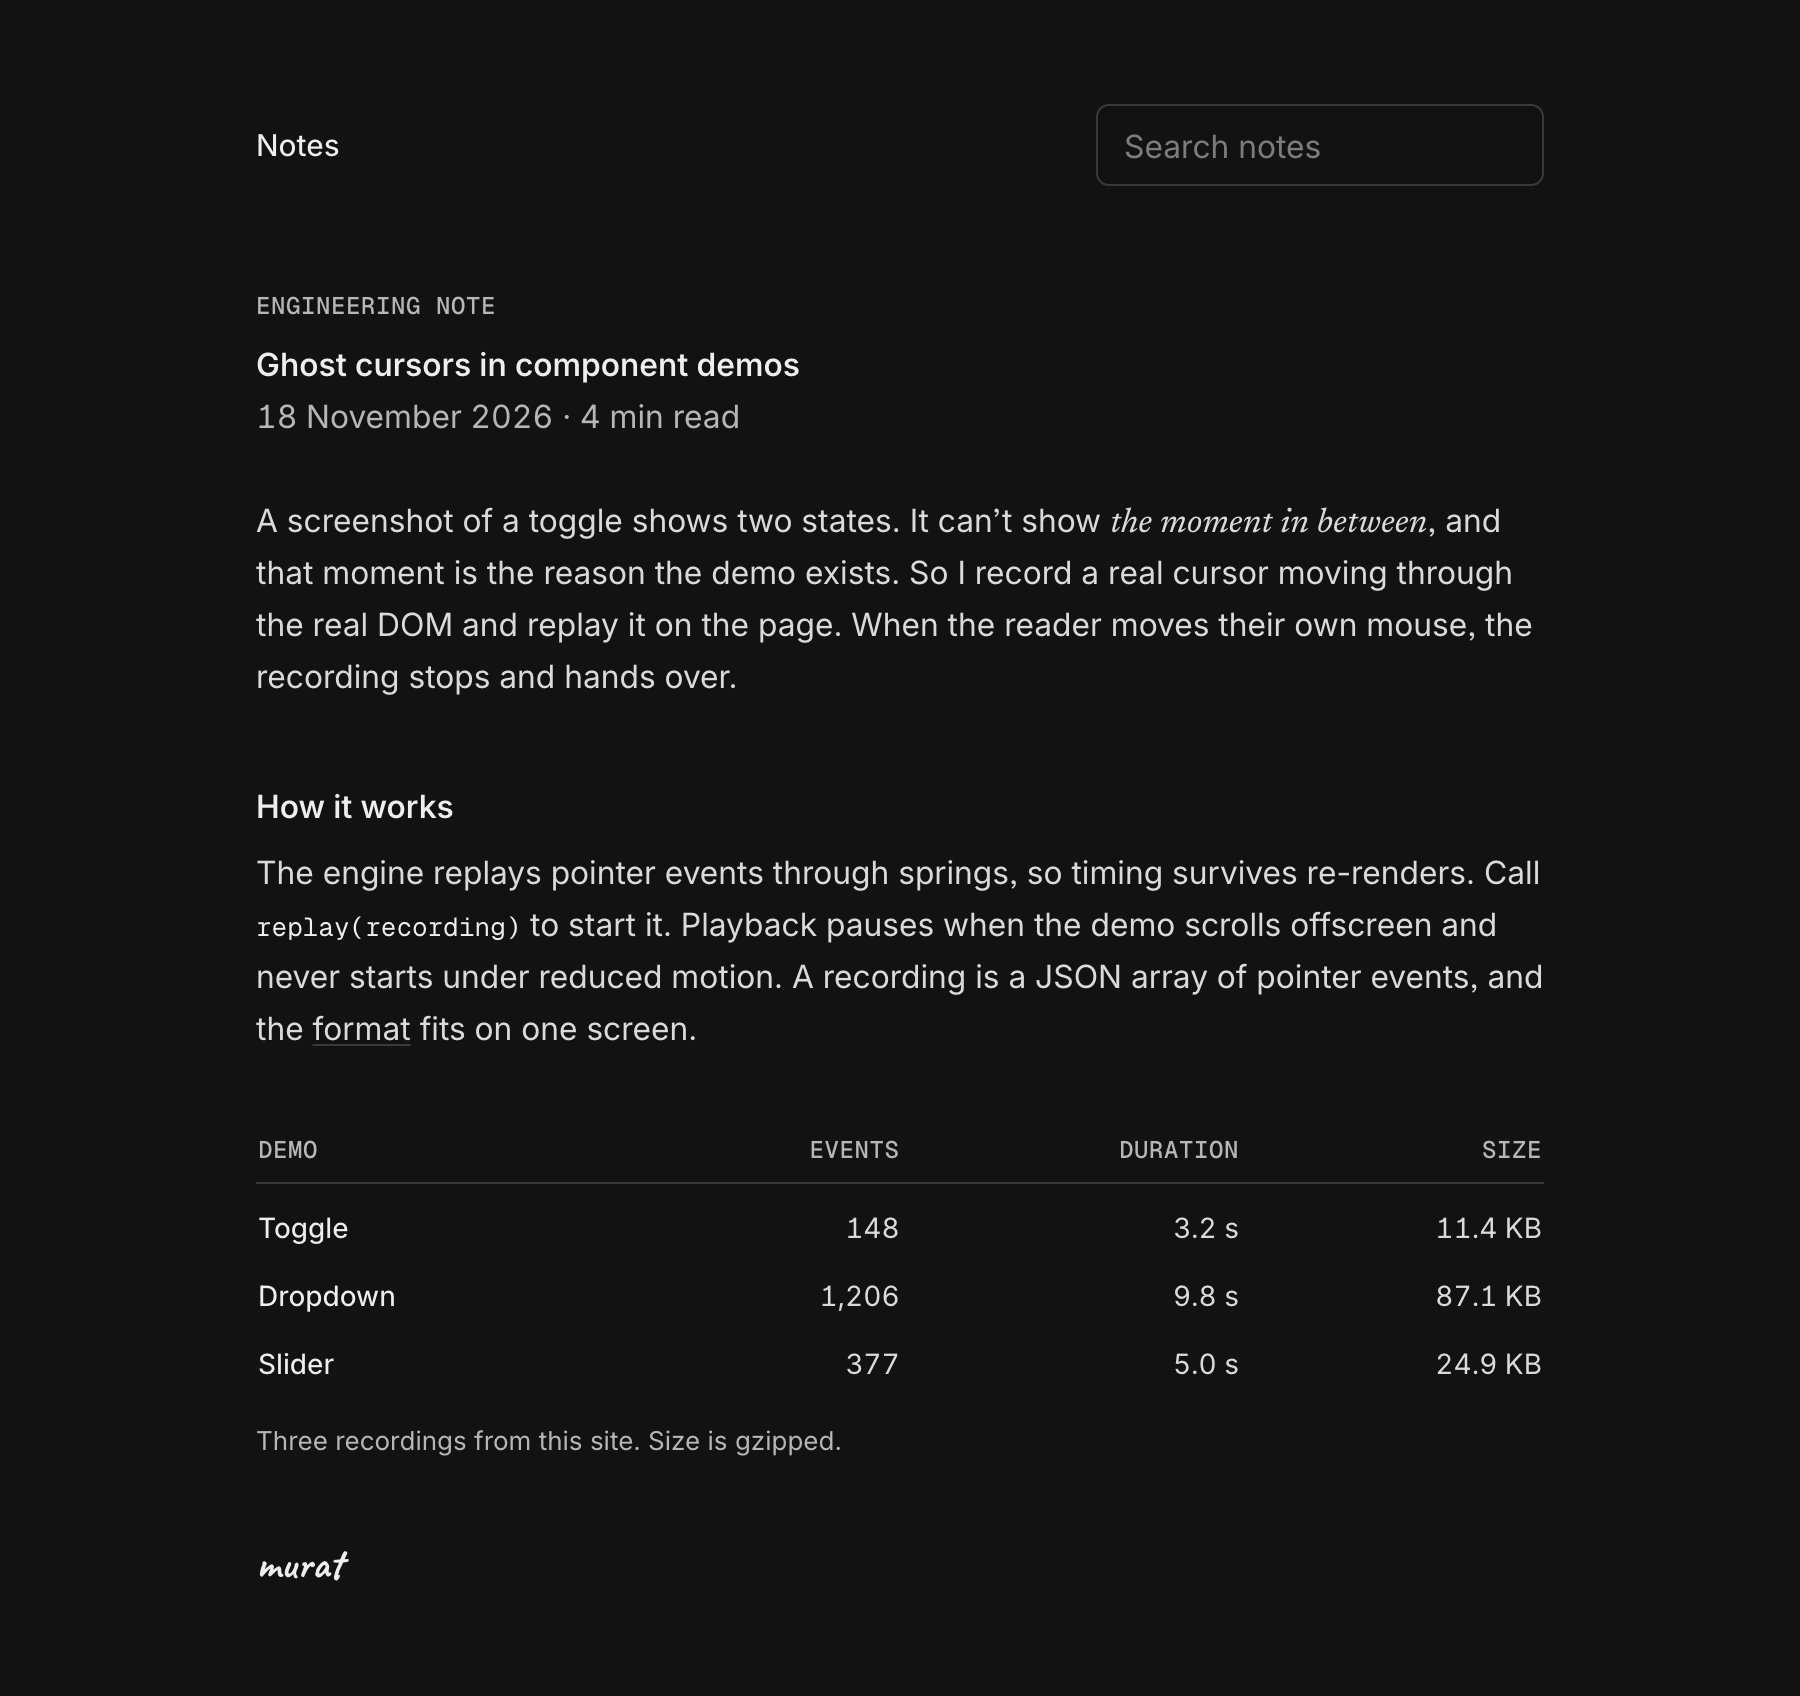
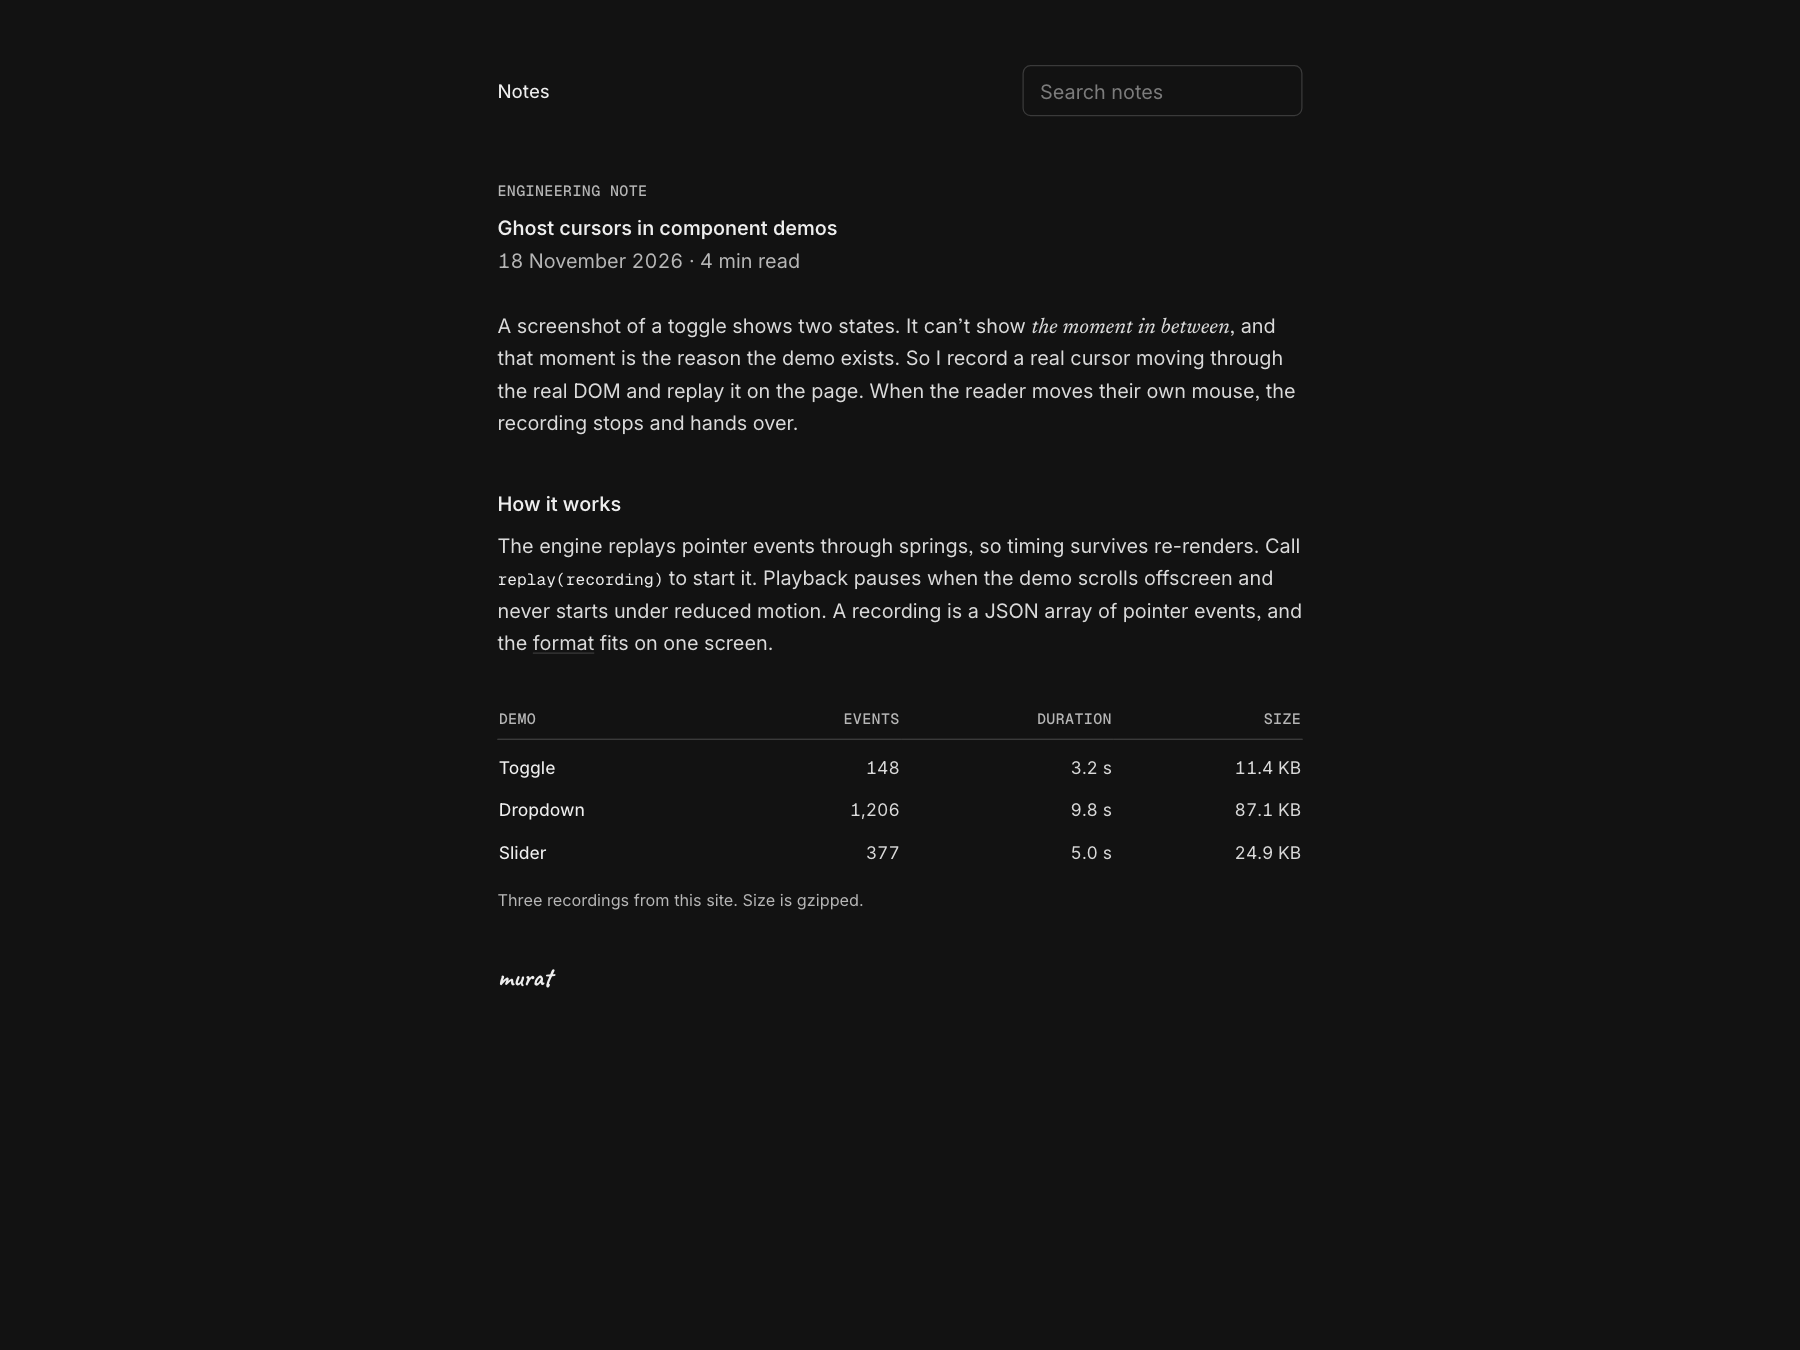
Zoom out the type-taste preview

diff --git a/site/components/playground/scenes.tsx b/site/components/playground/scenes.tsx
@@ -70,13 +70,13 @@ export function UiDiffScene(props: SceneProps) {
   );
 }
 
-/* type-taste: before.png and after.png from skills/type-taste/before-after, both 1800px wide. */
+/* type-taste: before.png and after.png from skills/type-taste/before-after, both 1800×1350. */
 function TypeShot({ which }: { which: "before" | "after" }) {
   return (
     <Image
       src={`/type-taste/${which}.png`}
       width={1800}
-      height={which === "before" ? 1558 : 1696}
+      height={1350}
       alt={
         which === "before"
           ? "A blog post as written: a small search field, a pale label and date, a large bold title, black text and a bold table head."

diff --git a/skills/type-taste/before-after/render.py b/skills/type-taste/before-after/render.py
@@ -14,7 +14,7 @@ failed_after = 0
 with sync_playwright() as p:
     b = p.chromium.launch()
     for name, scheme in [("before", "light"), ("after", "light"), ("after", "dark")]:
-        pg = b.new_page(viewport={"width": 900, "height": 400}, device_scale_factor=2, color_scheme=scheme)
+        pg = b.new_page(viewport={"width": 1440, "height": 1080}, device_scale_factor=1.25, color_scheme=scheme)
         pg.goto((d / f"{name}.html").as_uri())
         pg.evaluate("document.fonts.ready.then(() => 0)")
         pg.screenshot(path=str(d / f"{name}{'-dark' if scheme == 'dark' else ''}.png"), full_page=True)
